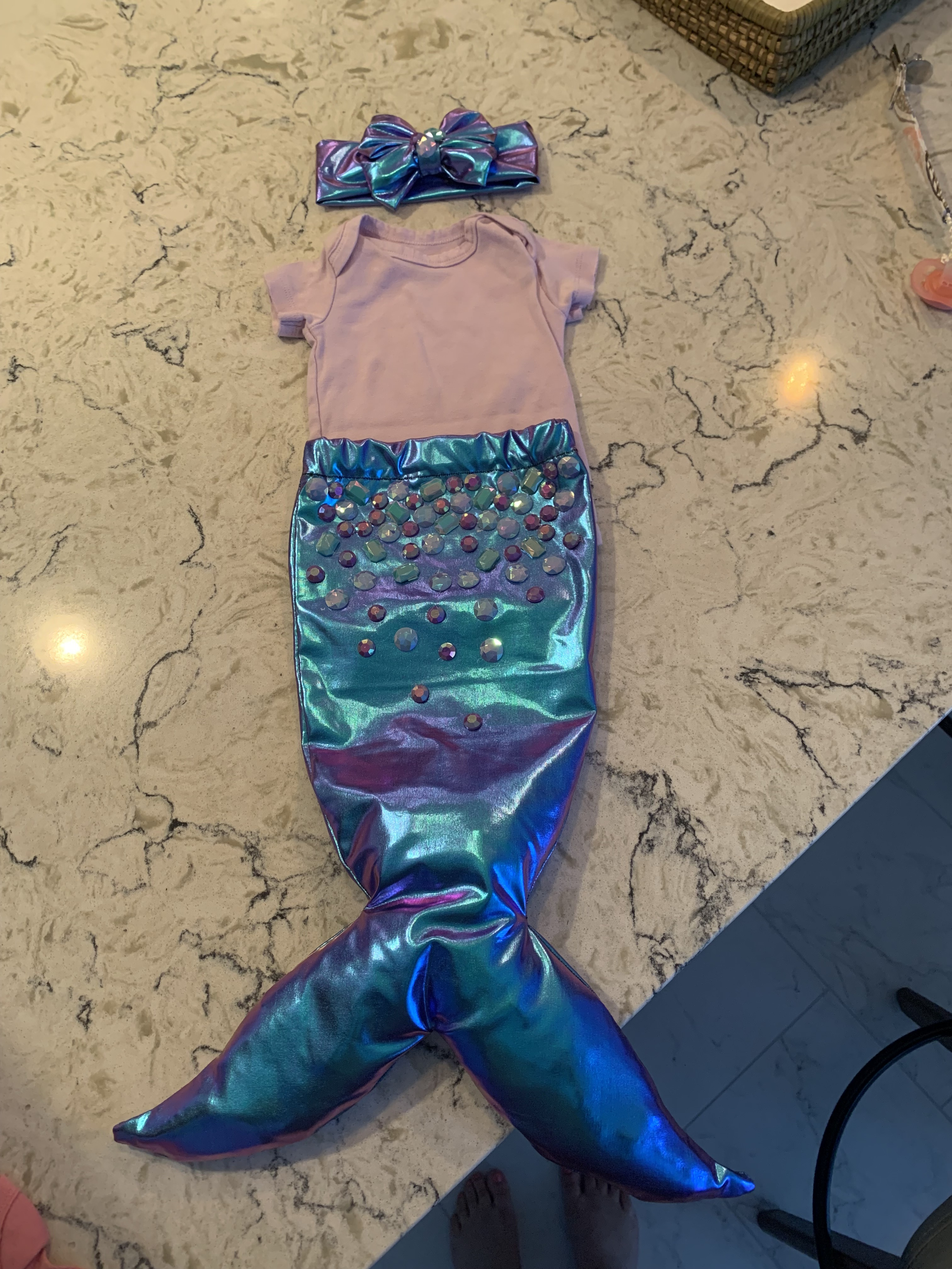
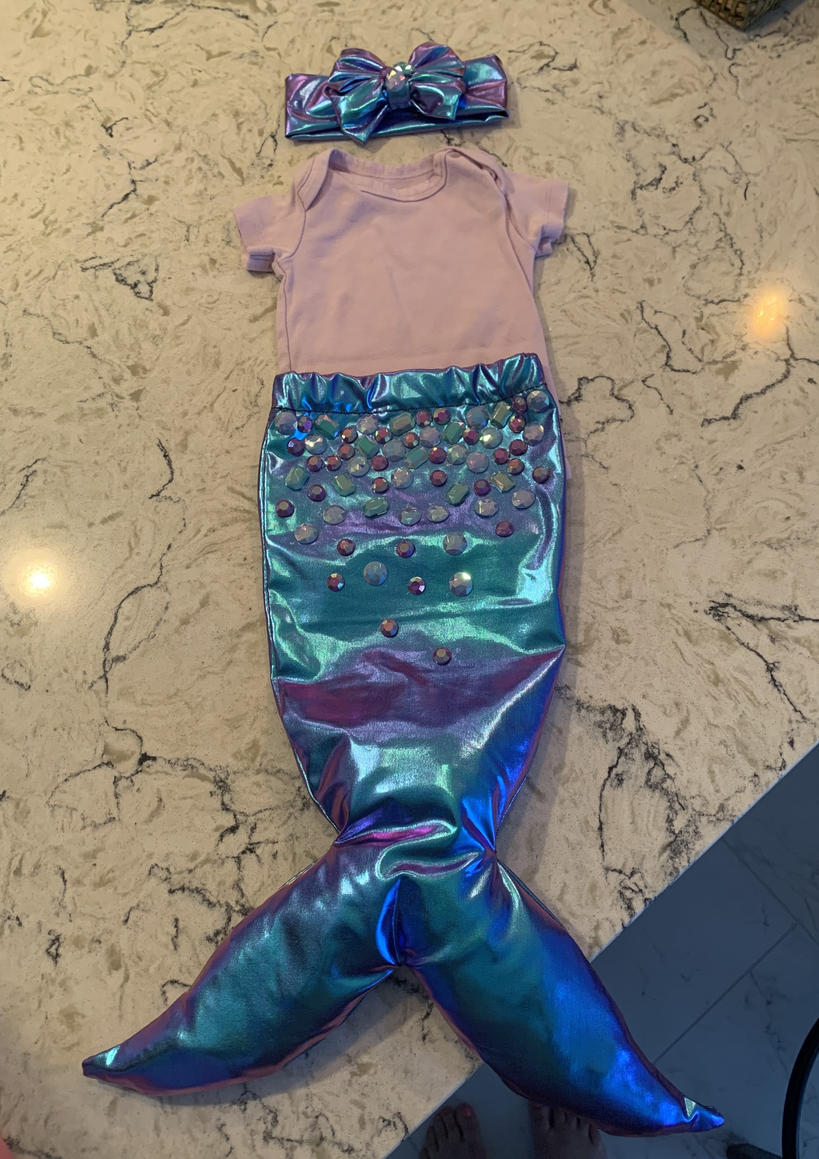
update archive page

diff --git a/archive.html b/archive.html
@@ -78,10 +78,10 @@
 
 													<!-- Feature -->
 														<section class="box feature">
-															<a class="image featured"><img src="images/PinkMum.jpg" alt="" /></a>
-															<h3><a href="#">TBD</a></h3>
+															<a class="image featured"><img src="images/crafts/OfficeBuiltIns.JPG" alt="" /></a>
+															<h3><a href="#">#WFH</a></h3>
 															<p>
-																More To Come</p>
+																Custom Built-ins for the home office</p>
 														</section>
 
 												</div>
@@ -89,10 +89,10 @@
 
 													<!-- Feature -->
 														<section class="box feature">
-															<a class="image featured"><img src="images/PinkMum.jpg" alt="" /></a>
-															<h3><a href="#">TBD</a></h3>
+															<a class="image featured"><img src="images/crafts/CarlaBlanket.jpg" alt="" /></a>
+															<h3><a href="#">Hallo baby!</a></h3>
 															<p>
-																More To Come</p>
+																Sweet squirrel blanket from Wilmington, NC to Munich, Germany for baby cousin</p>
 														</section>
 
 												</div>
@@ -100,10 +100,10 @@
 
 													<!-- Feature -->
 														<section class="box feature">
-															<a href="#" class="image featured"><img src="images/PinkMum.jpg" alt="" /></a>
-															<h3><a href="#">TBD</a></h3>
+															<a href="#" class="image featured"><img src="images/crafts/TableRunner.jpg" alt="" /></a>
+															<h3><a href="#">Running, Running</a></h3>
 															<p>
-																More To Come</p>
+																When Mom asks for a table runner, you provide</p>
 														</section>
 
 												</div>
@@ -111,10 +111,10 @@
 
 													<!-- Feature -->
 														<section class="box feature">
-															<a href="#" class="image featured"><img src="images/PinkMum.jpg" alt="" /></a>
-															<h3><a href="#">TBD</a></h3>
+															<a href="#" class="image featured"><img src="images/crafts/MermaidCostume.jpg" alt="" /></a>
+															<h3><a href="#">Trick or Treat</a></h3>
 															<p>
-																More To Come</p>
+																Addy's first Halloween brought a cute mermaid to the neighborhood</p>
 														</section>
 
 												</div>
